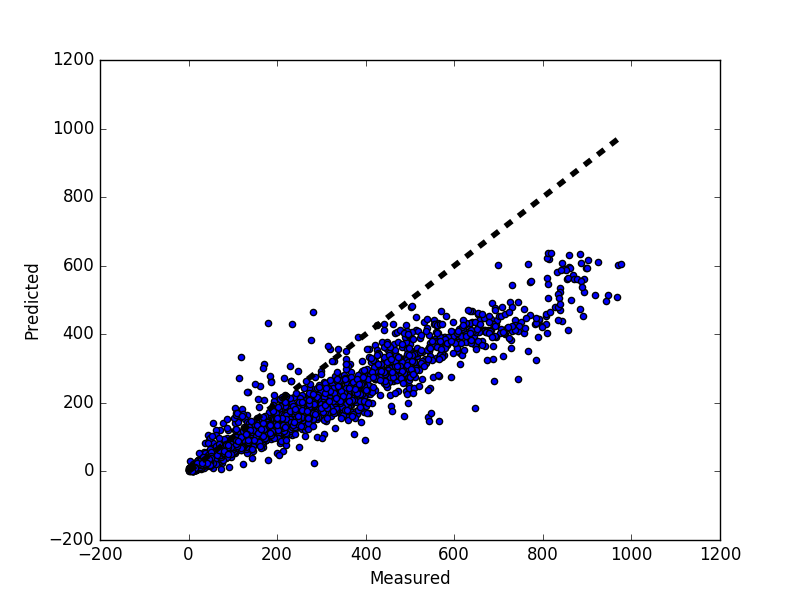
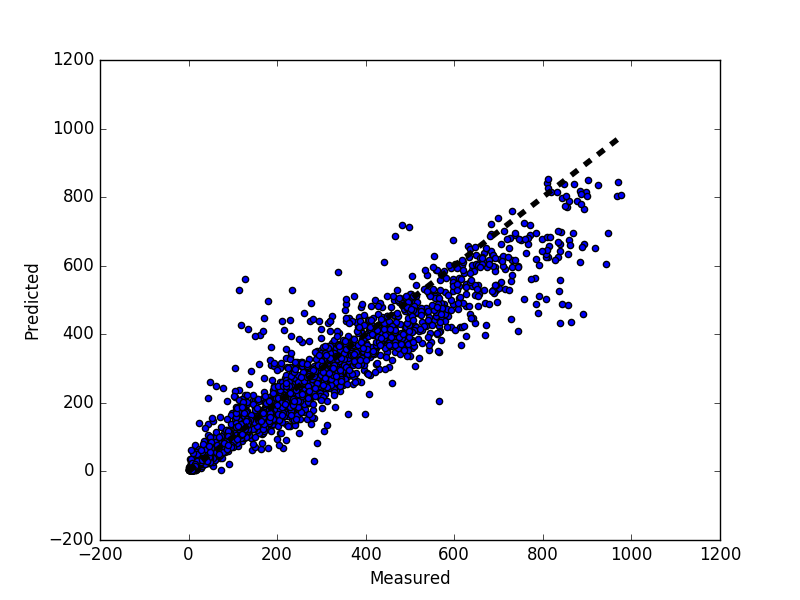
compute one model for casual and one for registered

Changed region(s): [[0.2188, 0.3, 0.7812, 0.81], [0.4688, 0.39, 0.5, 0.45], [0.5, 0.36, 0.5312, 0.39]]

diff --git a/code.py b/code.py
@@ -17,7 +17,7 @@ NB_HOUR_CLUSTER = 12
 
 # Set to true if you want to train the model with all train data and generate
 # the solution to submit on kaggle
-OUTPUT_KAGGLE = False
+OUTPUT_KAGGLE = True
 
 ################################################################################
 # Model evaluation functions                                                   #
@@ -121,23 +121,21 @@ def formatData(data):
 
 ### Read from files
 rawTrainData = pd.read_csv(FILE_NAME_TRAIN)
+# This is the files which contain the data from which to predict for kaggle competition
 rawTestData = pd.read_csv(FILE_NAME_TEST)
 
 trainDS = formatData(rawTrainData) # DS for Data Set
-
-# This is the files which contain the data from which to predict for kaggle competition
 outputDS = formatData(rawTestData)
 
 ### Cluster hours
-# compute model
 KMean = cluster.KMeans(n_clusters=NB_HOUR_CLUSTER)
 KMean.fit(trainDS['hour'].reshape(-1, 1), trainDS['count'].reshape(-1, 1))
 
 def refatorHour(data):
 	"""
 	Transform `hour` to multiple series. One serie for each NB_HOUR_CLUSTER.
-	For one row, the value of the serie which number == kmean cluster assignation
-	equal one, 0 for others.
+	For one row, the value of the serie which number == kmean cluster
+	assignation equal one, 0 for others.
 	"""
 	global KMean
 	floatHours = data['hour'].astype('float64')
@@ -151,34 +149,35 @@ refatorHour(trainDS)
 refatorHour(outputDS)
 
 ### Refactor trainDS
-# Delete redundant values
-# `casual` + `registered` == `count`. They are not the final value.
-trainDS.drop('casual', axis=1, inplace=True)
-trainDS.drop('registered', axis=1, inplace=True)
-
 # Reorder columns
-cols = [col for col in trainDS if col != 'count'] + ['count']
+cols = [col for col in trainDS if col != 'casual' and col != 'registered'] + ['casual', 'registered']
 trainDS = trainDS[cols]
 
 # Split dataset
-
 if OUTPUT_KAGGLE:
 	# for the features
-	cols = [col for col in trainDS if col != 'count']
+	cols = [col for col in trainDS if col != 'registered' and col != 'casual' and col != 'count']
 	trainX = trainDS.loc[:, cols].as_matrix()
 	testX = outputDS.loc[:, cols].as_matrix()
 
 	# for the result
+	trainYCasual = trainDS.loc[:, ['casual']].as_matrix()
+	trainYRegistered = trainDS.loc[:, ['registered']].as_matrix()
 	trainY = trainDS.loc[:, ['count']].as_matrix()
 
 else:
 	# for the features
-	cols = [col for col in trainDS if col != 'count']
+	cols = [col for col in trainDS if col != 'registered' and col != 'casual' and col != 'count']
 	trainX = trainDS.loc[:trainDS.shape[0] * 4 / 5, cols].as_matrix()
 	testX = trainDS.loc[trainDS.shape[0] * 4 / 5:, cols].as_matrix()
 
 	# for the result
+	trainYCasual = trainDS.loc[:trainDS.shape[0] * 4 / 5, ['casual']].as_matrix()
+	trainYRegistered = trainDS.loc[:trainDS.shape[0] * 4 / 5, ['registered']].as_matrix()
 	trainY = trainDS.loc[:trainDS.shape[0] * 4 / 5, ['count']].as_matrix()
+
+	testYCasual = trainDS.loc[trainDS.shape[0] * 4 / 5 :, ['casual']].as_matrix()
+	testYRegistered = trainDS.loc[trainDS.shape[0] * 4 / 5 :, ['registered']].as_matrix()
 	testY = trainDS.loc[trainDS.shape[0] * 4 / 5 :, ['count']].as_matrix()
 
 ################################################################################
@@ -186,9 +185,11 @@ else:
 ################################################################################
 
 ### Compute linear regression
-regr = linear_model.LinearRegression()
-regr.fit(trainX, trainY)
-predicted = regr.predict(testX)
+regrCasual = linear_model.LinearRegression()
+regrRegistered = linear_model.LinearRegression()
+regrCasual.fit(trainX, trainYCasual)
+regrRegistered.fit(trainX, trainYRegistered)
+predicted = regrCasual.predict(testX) +regrRegistered.predict(testX)
 
 if not OUTPUT_KAGGLE:
 	### Evaluate accuracy of the computed model
@@ -211,9 +212,11 @@ if not OUTPUT_KAGGLE:
 ################################################################################
 
 ### Compute model
-clf = ExtraTreesRegressor(n_estimators=10)
-clf = clf.fit(trainX, np.ravel(trainY))
-predicted = clf.predict(testX)
+clfCasual = ExtraTreesRegressor(n_estimators=10)
+clfCasual = clfCasual.fit(trainX, np.ravel(trainYCasual))
+clfRegistered = ExtraTreesRegressor(n_estimators=10)
+clfRegistered = clfRegistered.fit(trainX, np.ravel(trainYRegistered))
+predicted = clfCasual.predict(testX) + clfRegistered.predict(testX)
 
 if not OUTPUT_KAGGLE:
 	### Evaluate accuracy of the computed model
@@ -231,13 +234,13 @@ if not OUTPUT_KAGGLE:
 	ax.set_ylabel('Predicted')
 	fig.savefig('img/final_clf.png')
 
-	### Plot train
-	fig, ax = plt.subplots()
-	ax.scatter(trainY, clf.predict(trainX))
-	ax.plot([trainY.min(), trainY.max()], [trainY.min(), trainY.max()], 'k--', lw=4)
-	ax.set_xlabel('Measured')
-	ax.set_ylabel('Predicted')
-	fig.savefig('img/train_clf.png')
+	# ### Plot train
+	# fig, ax = plt.subplots()
+	# ax.scatter(trainY, clf.predict(trainX))
+	# ax.plot([trainY.min(), trainY.max()], [trainY.min(), trainY.max()], 'k--', lw=4)
+	# ax.set_xlabel('Measured')
+	# ax.set_ylabel('Predicted')
+	# fig.savefig('img/train_clf.png')
 
 ################################################################################
 # Output for kaggle competition                                                #
